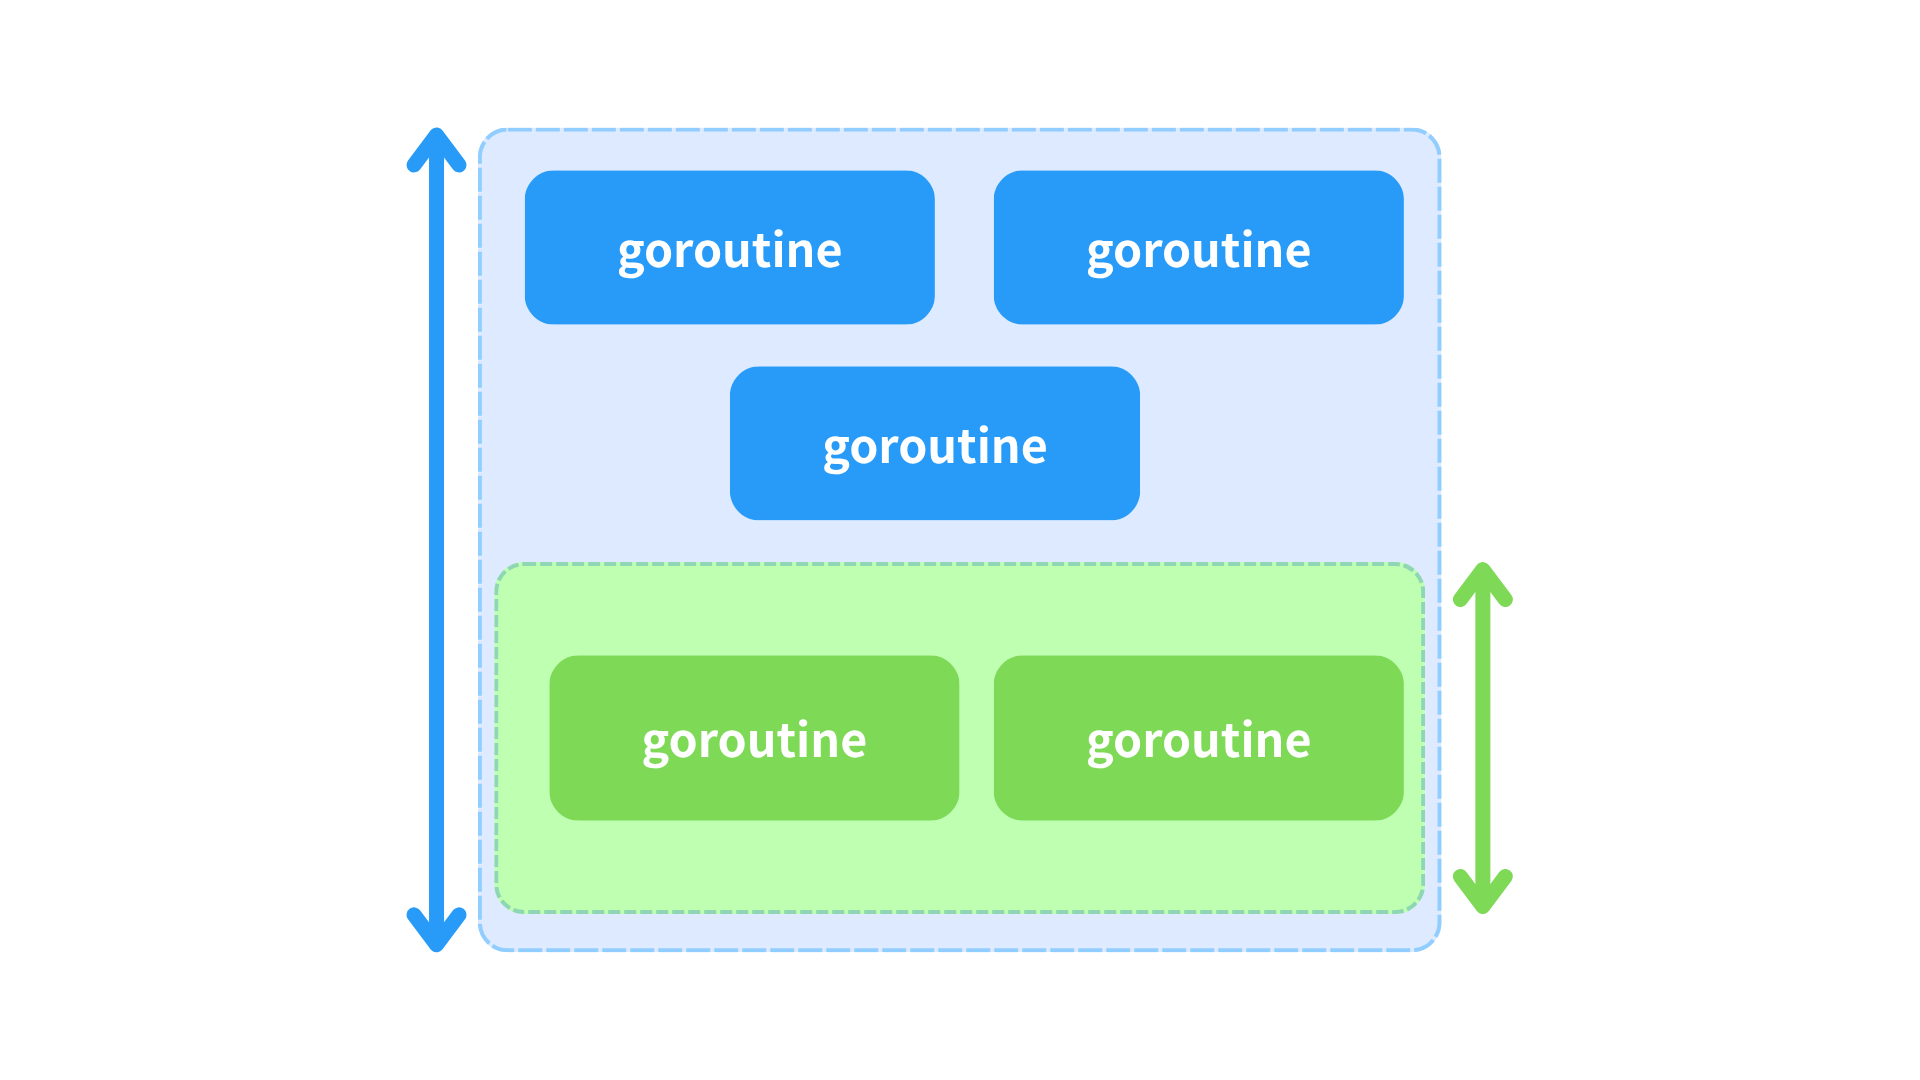
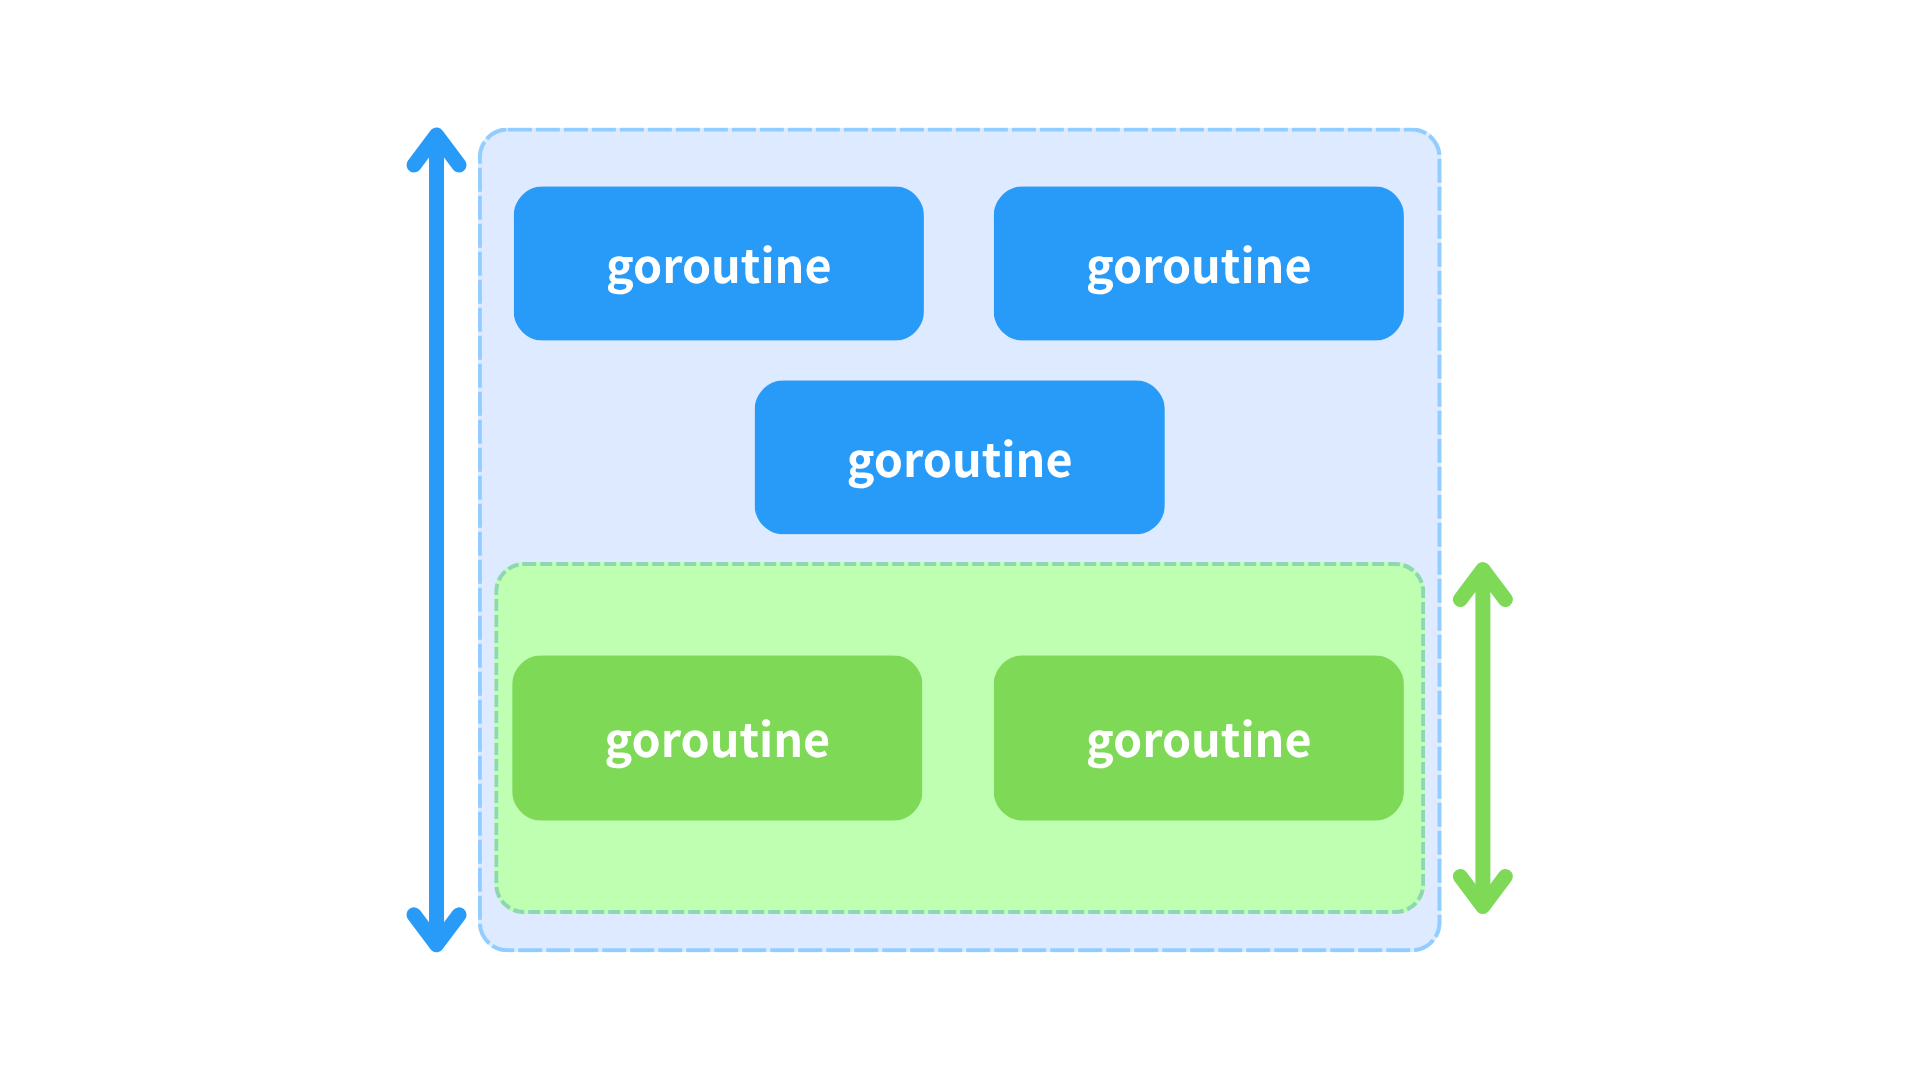
update

Changed region(s): [[0.25, 0.1528, 0.75, 0.5194], [0.25, 0.6111, 0.5, 0.7639]]

diff --git a/articles/b9a4f34739ddb4.md b/articles/b9a4f34739ddb4.md
@@ -334,7 +334,7 @@ Kotlin coroutines / Swift Structured Concurrency / Python `asyncio.TaskGroup` / 
   - 例: Kotlin `launch` / Swift `TaskGroup.addTask` / Python `TaskGroup.create_task` / Java `scope.fork`
 - **Timeout / Deadline**
   - スコープ全体に時間制限を設ける
-  - 例: Kotlin `withTimeout` / Python `asyncio.timeout` / Java `joinUntil` (Swift はコアAPI無し、`Task.sleep` + `group.cancelAll()` で自作が慣用)
+  - 例: Kotlin `withTimeout` / Python `asyncio.timeout` / Java `joinUntil` (Swift はコアAPI無し、`Task.sleep` + `group.cancelAll()` で自作が慣用っぽい)
 - **ネスト子スコープ**
   - 親スコープから子スコープを派生させる明示API
   - 例: Kotlin nested `coroutineScope` / Swift nested `withTaskGroup` / Python nested `asyncio.TaskGroup` / Java nested `StructuredTaskScope`
@@ -371,7 +371,7 @@ https://github.com/kakkky/scope
 
 
 ![](/images/structured-conc/scope-concept.png)
-*goroutineはscopeを超えて存続しない*
+*goroutineのライフタイムはscopeに閉じている*
 
 
 `scope`では、タスクグループを`scope.Run`という一つの関数呼び出しで表現します。
